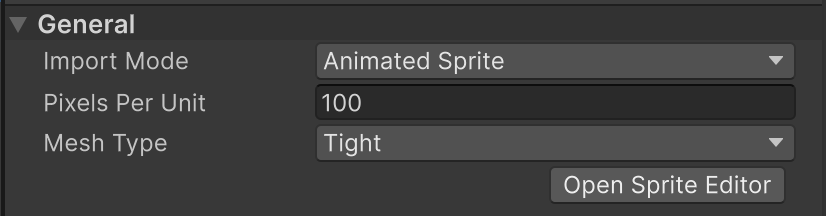
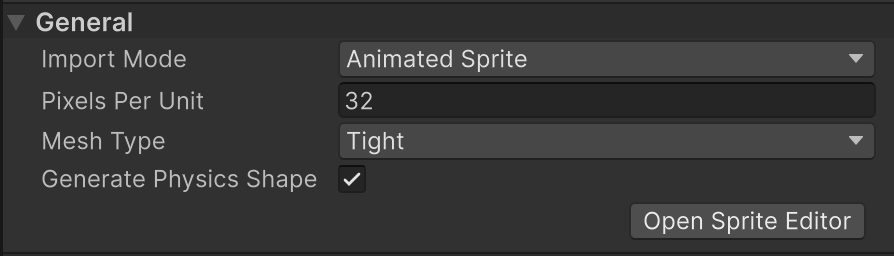
com.unity.2d.aseprite@1.1.0 ## [1.1.0] - 2023-11-24 ### Added - Added a mosaic padding option to the importer editor. - Added Generate Physics Shape option to the importer editor.
### Changed
- Fixed an issue where the background importer would act on files that were not Aseprite files.

diff --git a/Editor/Inspector/AsepriteImporterEditor.cs b/Editor/Inspector/AsepriteImporterEditor.cs
@@ -19,6 +19,7 @@ namespace UnityEditor.U2D.Aseprite
         const string k_PaddingElementUssClass = "PaddingElement";
         const string k_SubElementUssClass = "SubElement";
 
+        SerializedProperty m_GeneratePhysicsShape;
         SerializedProperty m_TextureType;
         SerializedProperty m_TextureShape;
         SerializedProperty m_SpriteMode;
@@ -59,6 +60,7 @@ namespace UnityEditor.U2D.Aseprite
         SerializedProperty m_DefaultPivotSpace;
         SerializedProperty m_DefaultPivotAlignment;
         SerializedProperty m_CustomPivotPosition;
+        SerializedProperty m_MosaicPadding;
         SerializedProperty m_SpritePadding;
 
         SerializedProperty m_GenerateModelPrefab;
@@ -127,7 +129,9 @@ namespace UnityEditor.U2D.Aseprite
 
         void CacheSerializedProperties()
         {
-           var textureImporterSettingsSP = serializedObject.FindProperty("m_TextureImporterSettings");
+            m_GeneratePhysicsShape = serializedObject.FindProperty("m_GeneratePhysicsShape");
+            
+            var textureImporterSettingsSP = serializedObject.FindProperty("m_TextureImporterSettings");
             m_TextureType = textureImporterSettingsSP.FindPropertyRelative("m_TextureType");
             m_TextureShape = textureImporterSettingsSP.FindPropertyRelative("m_TextureShape");
             m_ConvertToNormalMap = textureImporterSettingsSP.FindPropertyRelative("m_ConvertToNormalMap");
@@ -168,6 +172,7 @@ namespace UnityEditor.U2D.Aseprite
             m_DefaultPivotSpace = asepriteImporterSettings.FindPropertyRelative("m_DefaultPivotSpace");
             m_DefaultPivotAlignment = asepriteImporterSettings.FindPropertyRelative("m_DefaultPivotAlignment");
             m_CustomPivotPosition = asepriteImporterSettings.FindPropertyRelative("m_CustomPivotPosition");
+            m_MosaicPadding = asepriteImporterSettings.FindPropertyRelative("m_MosaicPadding");
             m_SpritePadding = asepriteImporterSettings.FindPropertyRelative("m_SpritePadding");
 
             m_GenerateModelPrefab = asepriteImporterSettings.FindPropertyRelative("m_GenerateModelPrefab");
@@ -272,6 +277,13 @@ namespace UnityEditor.U2D.Aseprite
                 serializedObject.ApplyModifiedProperties();
             });
             foldOut.Add(meshField);
+
+            var physicsShapeField = new PropertyField(m_GeneratePhysicsShape, styles.generatePhysicsShape.text)
+            {
+                tooltip = styles.generatePhysicsShape.tooltip
+            };
+            physicsShapeField.Bind(serializedObject);
+            foldOut.Add(physicsShapeField);
 
             SetupSpriteEditorButton(foldOut);
             
@@ -396,14 +408,30 @@ namespace UnityEditor.U2D.Aseprite
             customPivotField.EnableInClassList(k_HiddenElementUssClass, !shouldShow);
             customPivotField.schedule.Execute(x =>
             {
-                var shouldShow = (SpriteAlignment)pivotAlignmentPopup.index == SpriteAlignment.Custom;
-                if (customPivotField.visible != shouldShow)
+                var isShowing = (SpriteAlignment)pivotAlignmentPopup.index == SpriteAlignment.Custom;
+                if (customPivotField.visible != isShowing)
                 {
-                    customPivotField.visible = shouldShow;
-                    customPivotField.EnableInClassList(k_HiddenElementUssClass, !shouldShow);
+                    customPivotField.visible = isShowing;
+                    customPivotField.EnableInClassList(k_HiddenElementUssClass, !isShowing);
                 }
             }).Every(100);
             foldOut.Add(customPivotField);
+            
+            var mosaicPaddingField = new PropertyField(m_MosaicPadding, styles.mosaicPadding.text)
+            {
+                tooltip = styles.mosaicPadding.tooltip
+            };
+            mosaicPaddingField.Bind(serializedObject);
+            mosaicPaddingField.schedule.Execute(() =>
+            {
+                var isShowing = fileImportMode == FileImportModes.AnimatedSprite;
+                if (mosaicPaddingField.visible != isShowing)
+                {
+                    mosaicPaddingField.visible = isShowing;
+                    mosaicPaddingField.EnableInClassList(k_HiddenElementUssClass, !isShowing);
+                }
+            }).Every(100);
+            foldOut.Add(mosaicPaddingField);            
             
             var spritePaddingField = new PropertyField(m_SpritePadding, styles.spritePadding.text)
             {
@@ -412,11 +440,11 @@ namespace UnityEditor.U2D.Aseprite
             spritePaddingField.Bind(serializedObject);
             spritePaddingField.schedule.Execute(() =>
             {
-                var shouldShow = fileImportMode == FileImportModes.AnimatedSprite;
-                if (spritePaddingField.visible != shouldShow)
+                var isShowing = fileImportMode == FileImportModes.AnimatedSprite;
+                if (spritePaddingField.visible != isShowing)
                 {
-                    spritePaddingField.visible = shouldShow;
-                    spritePaddingField.EnableInClassList(k_HiddenElementUssClass, !shouldShow);
+                    spritePaddingField.visible = isShowing;
+                    spritePaddingField.EnableInClassList(k_HiddenElementUssClass, !isShowing);
                 }
             }).Every(100);
             foldOut.Add(spritePaddingField);
@@ -1419,6 +1447,7 @@ namespace UnityEditor.U2D.Aseprite
             public readonly GUIContent fileImportMode = new ("Import Mode", "How the file should be imported.");
             public readonly GUIContent spritePixelsPerUnit = new ("Pixels Per Unit", "How many pixels in the sprite correspond to one unit in the world.");
             public readonly GUIContent spriteMeshType = new ("Mesh Type", "Type of sprite mesh to generate.");
+            public readonly GUIContent generatePhysicsShape = new ("Generate Physics Shape", "Generates a default physics shape from the outline of the Sprite/s when a physics shape has not been set in the Sprite Editor.");
 
             public readonly GUIContent warpNotSupportWarning = new ("Graphics device doesn't support Repeat wrap mode on NPOT textures. Falling back to Clamp.");
             public readonly GUIContent anisoLevelLabel = new ("Aniso Level");
@@ -1464,7 +1493,8 @@ namespace UnityEditor.U2D.Aseprite
             public readonly GUIContent defaultPivotSpace = EditorGUIUtility.TrTextContent("Pivot Space", "Select which space the pivot should be calculated in.");
             public readonly GUIContent defaultPivotAlignment = EditorGUIUtility.TrTextContent("Pivot Alignment", "Select where the pivot should be located based on the Pivot Space.");
             public readonly GUIContent customPivotPosition = EditorGUIUtility.TrTextContent("Custom Pivot Position", "Input the normalized position of the Sprite pivots. The position will be calculated based on the Pivot Space.");
-            public readonly GUIContent spritePadding = EditorGUIUtility.TrTextContent("Sprite Padding", "Internal padding within each SpriteRect generated from the Aseprite file.");
+            public readonly GUIContent mosaicPadding = EditorGUIUtility.TrTextContent("Mosaic Padding", "External padding between each SpriteRect, in pixels.");
+            public readonly GUIContent spritePadding = EditorGUIUtility.TrTextContent("Sprite Padding", "Internal padding within each SpriteRect, in pixels.");
 
             public readonly List<string> spriteAlignmentOptions = new()
             {

diff --git a/Editor/AsepriteImporter.cs b/Editor/AsepriteImporter.cs
@@ -81,6 +81,7 @@ namespace UnityEditor.U2D.Aseprite
             defaultPivotAlignment = SpriteAlignment.BottomCenter,
             defaultPivotSpace = PivotSpaces.Canvas,
             customPivotPosition = new Vector2(0.5f, 0.5f),
+            mosaicPadding = 4,
             spritePadding = 0,
             generateAnimationClips = true,
             generateModelPrefab = true,
@@ -109,6 +110,7 @@ namespace UnityEditor.U2D.Aseprite
 
         [SerializeField] List<TextureImporterPlatformSettings> m_PlatformSettings = new List<TextureImporterPlatformSettings>();
         
+        [SerializeField] bool m_GeneratePhysicsShape = false;
         [SerializeField] SecondarySpriteTexture[] m_SecondarySpriteTextures;   
         [SerializeField] string m_SpritePackingTag = "";   
         
@@ -154,6 +156,16 @@ namespace UnityEditor.U2D.Aseprite
         {
             get => importData.textureActualHeight;
             private set => importData.textureActualHeight = value;
+        }
+
+        float definitionScale
+        {
+            get
+            {
+                var definitionScaleW = importData.importedTextureWidth / (float) textureActualWidth;
+                var definitionScaleH = importData.importedTextureHeight / (float) textureActualHeight;
+                return Mathf.Min(definitionScaleW, definitionScaleH);
+            }
         }
 
         internal SecondarySpriteTexture[] secondaryTextures
@@ -203,9 +215,9 @@ namespace UnityEditor.U2D.Aseprite
                     m_AsepriteLayers = UpdateLayers(in newLayers, in m_AsepriteLayers);
                 }
 
-                var padding = 4;
-                var spritePadding = m_AsepriteImporterSettings.fileImportMode == FileImportModes.AnimatedSprite ? m_AsepriteImporterSettings.spritePadding : 0;
-                ImagePacker.Pack(cellBuffers.ToArray(), cellWidth.ToArray(), cellHeight.ToArray(), padding, spritePadding, out var outputImageBuffer, out var packedTextureWidth, out var packedTextureHeight, out var spriteRects, out var uvTransforms);
+                var mosaicPad = m_AsepriteImporterSettings.mosaicPadding;
+                var spritePad = m_AsepriteImporterSettings.fileImportMode == FileImportModes.AnimatedSprite ? m_AsepriteImporterSettings.spritePadding : 0;
+                ImagePacker.Pack(cellBuffers.ToArray(), cellWidth.ToArray(), cellHeight.ToArray(), (int)mosaicPad, spritePad, out var outputImageBuffer, out var packedTextureWidth, out var packedTextureHeight, out var spriteRects, out var uvTransforms);
                 
                 var packOffsets = new Vector2Int[spriteRects.Length];
                 for (var i = 0; i < packOffsets.Length; ++i)
@@ -236,6 +248,9 @@ namespace UnityEditor.U2D.Aseprite
                     importData.importedTextureWidth = output.texture.width;
                 }
 
+                if (output.texture != null && output.sprites != null)
+                    SetPhysicsOutline(GetDataProvider<ISpritePhysicsOutlineDataProvider>(), output.sprites, definitionScale, pixelsPerUnit, m_GeneratePhysicsShape);
+                
                 RegisterAssets(ctx, output);
                 OnPostAsepriteImport?.Invoke(new ImportEventArgs(this, ctx));
                 
@@ -639,6 +654,54 @@ namespace UnityEditor.U2D.Aseprite
             spriteData.name = cell.name;
             spriteData.uvTransform = uvTransform;
             return spriteData;
+        }
+        
+       static void SetPhysicsOutline(ISpritePhysicsOutlineDataProvider physicsOutlineDataProvider, Sprite[] sprites, float definitionScale, float pixelsPerUnit, bool generatePhysicsShape)
+        {
+            foreach (var sprite in sprites)
+            {
+                var guid = sprite.GetSpriteID();
+                var outline = physicsOutlineDataProvider.GetOutlines(guid);
+
+                var outlineOffset = sprite.pivot;
+                var generated = false;
+                if ((outline == null || outline.Count == 0) && generatePhysicsShape)
+                {
+                    InternalEditorBridge.GenerateOutlineFromSprite(sprite, 0.25f, 200, true, out var defaultOutline);
+                    outline = new List<Vector2[]>(defaultOutline.Length);
+                    for (var i = 0; i < defaultOutline.Length; ++i)
+                    {
+                        outline.Add(defaultOutline[i]);
+                    }
+
+                    generated = true;
+                }
+                if (outline != null && outline.Count > 0)
+                {
+                    // Ensure that outlines are all valid.
+                    var validOutlineCount = 0;
+                    for (var i = 0; i < outline.Count; ++i)
+                        validOutlineCount += ( (outline[i].Length > 2) ? 1 : 0 );
+
+                    var index = 0;
+                    var convertedOutline = new Vector2[validOutlineCount][];
+                    var useScale = generated ? pixelsPerUnit * definitionScale : definitionScale;
+
+                    for (var i = 0; i < outline.Count; ++i)
+                    {
+                        if (outline[i].Length > 2)
+                        {
+                            convertedOutline[index] = new Vector2[outline[i].Length];
+                            for (var j = 0; j < outline[i].Length; ++j)
+                            {
+                                convertedOutline[index][j] = outline[i][j] * useScale + outlineOffset;
+                            }
+                            index++;
+                        }
+                    }
+                    sprite.OverridePhysicsShape(convertedOutline);
+                }
+            }
         }
 
         void RegisterAssets(AssetImportContext ctx, TextureGenerationOutput output)

diff --git a/Editor/AsepriteImporterAPIs.cs b/Editor/AsepriteImporterAPIs.cs
@@ -88,6 +88,19 @@ namespace UnityEditor.U2D.Aseprite
         }    
         
         /// <summary>
+        /// If enabled, generates a default physics shape from the outline of the Sprite/s when a physics shape has not been set in the Sprite Editor.
+        /// </summary>
+        public bool generatePhysicsShape
+        {
+            get => m_GeneratePhysicsShape;
+            set
+            {
+                m_GeneratePhysicsShape = value;
+                SetDirty();
+            }
+        }         
+        
+        /// <summary>
         /// The number of blank pixels to leave between the edge of the graphic and the mesh.
         /// </summary>
         public uint spriteExtrude
@@ -152,7 +165,16 @@ namespace UnityEditor.U2D.Aseprite
         }
         
         /// <summary>
-        /// Internal padding within each SpriteRect generated from the Aseprite file.
+        /// External padding between each SpriteRect, in pixels.
+        /// </summary>
+        public uint mosaicPadding
+        {
+            get => m_AsepriteImporterSettings.mosaicPadding;
+            set => m_AsepriteImporterSettings.mosaicPadding = value;
+        }          
+        
+        /// <summary>
+        /// Internal padding within each SpriteRect, in pixels.
         /// </summary>
         public uint spritePadding
         {

diff --git a/Editor/Common/InternalBridge/InternalEditorBridge.cs b/Editor/Common/InternalBridge/InternalEditorBridge.cs
@@ -27,5 +27,10 @@ namespace UnityEditor.U2D.Aseprite.Common
         public static void AddManagedGameObject(this PreviewRenderUtility scene, GameObject go) => scene.AddManagedGO(go);
         
         public static void RefreshInspectors() => InspectorWindow.RefreshInspectors(); 
+        
+        public static void GenerateOutlineFromSprite(Sprite sprite, float detail, byte alphaTolerance, bool holeDetection, out Vector2[][] paths)
+        {
+            UnityEditor.Sprites.SpriteUtility.GenerateOutlineFromSprite(sprite, detail, alphaTolerance, holeDetection, out paths);
+        }        
     }
 }

diff --git a/Editor/AsepriteImporterSettings.cs b/Editor/AsepriteImporterSettings.cs
@@ -47,6 +47,13 @@ namespace UnityEditor.U2D.Aseprite
             get => m_CustomPivotPosition;
             set => m_CustomPivotPosition = value;
         }
+        
+        [SerializeField] uint m_MosaicPadding;
+        public uint mosaicPadding
+        {
+            get => m_MosaicPadding;
+            set => m_MosaicPadding = value;
+        }
 
         [SerializeField] uint m_SpritePadding;
         public uint spritePadding

diff --git a/Documentation~/ImporterFeatures.md b/Documentation~/ImporterFeatures.md
@@ -55,6 +55,10 @@ The Aseprite Importer is available after you import a .ase/.aseprite file into y
       <td><strong><a href="https://docs.unity3d.com/Documentation/ScriptReference/SpriteMeshType.Tight.html">Tight</a></strong></td>
       <td>Unity generates a Mesh based on the outline of the Sprite. If the Sprite is smaller than 32 x 32 pixels, Unity always maps it onto a <b>Full Rect</b> quad Mesh, even if you select <b>Tight</b>.</td>
     </tr>
+    <tr>
+      <td rowspan="1"><strong>Generate Physics Shape</strong></td>
+      <td colspan="2">Generates a default physics shape from the outline of the Sprite/s when a physics shape has not been set in the Sprite Editor.</td>
+    </tr>
   </tbody>
 </table>
 
@@ -101,8 +105,12 @@ The Aseprite Importer is available after you import a .ase/.aseprite file into y
       <td colspan="2">How a Sprite's graphic rectangle is aligned with its pivot point. This property is set <b>Bottom</b> by default.</td>
     </tr>   
     <tr>
+      <td rowspan="1"><strong>Mosaic Padding</strong></td>
+      <td colspan="2">External padding between each SpriteRect. This property is set <b>4</b> pixels by default.</td>
+    </tr>  
+    <tr>
       <td rowspan="1"><strong>Sprite Padding</strong></td>
-      <td colspan="2">Internal padding within each SpriteRect generated from the Aseprite file. This property is set <b>0</b> by default.</td>
+      <td colspan="2">Internal padding within each SpriteRect. This property is set <b>0</b> pixels by default.</td>
     </tr>      
   </tbody>
 </table>

diff --git a/Documentation~/index.md b/Documentation~/index.md
@@ -5,11 +5,18 @@ The Aseprite Importer is an Asset importer that imports [Aseprite's](https://www
 See [Aseprite Features](AsepriteFeatures) to read more about which features from Aseprite are supported by the importer. See [Importer Features](ImporterFeatures) to read more about which features the Aseprite Importer provides.
 
 ## Getting Started
-**Prerequisite:** Unity 2021.3.15f1 or newer
+If you are using any of the following Unity versions or newer, Aseprite Importer package comes preinstalled when creating a new 2D or 2D URP project.
 
+- Unity 2023.2.0a19
+- Unity 2023.1.0f1
+- Unity 2022.3.2f1
+- Unity 2021.3.28f1
+
+You can also manually add the Aseprite Importer package by:
 1. Open [Package Manager](https://docs.unity3d.com/Manual/upm-ui.html).
-2. Press the + button and select **Add package by name**.
-3. Enter `com.unity.2d.aseprite`.
-4. Press OK.
+2. Search for **Aseprite Importer**.
+3. Select **2D Aseprite Importer** and press the **install** button.
     - If you see a Burst popup saying that a new version of Burst has been installed, restart the editor.
-5. You are now ready to import `.ase` and `.aseprite` files into your project.
+4. You are now ready to import `.ase` and `.aseprite` files into your project.
+
+**Note:** You need to use **Unity 2021.3.15f1** or newer.

diff --git a/Documentation~/whats-new.md b/Documentation~/whats-new.md
@@ -1,17 +1,4 @@
-# What's new in version 1.0.0
+# What's new in version 1.1.0
 
-- Added a new event to the Aseprite Importer which is fired at the last import process step.
-- Made the Aseprite file property publicly available.
-- Made the Aseprite file parsing API publicly available.
-- Added a property to set the padding within each generated SpriteRect.
-- Added an option to select import mode for the file, either Animated Sprite or Sprite Sheet.
-- Added ability to generate Animation Events from Cell user data.
-- Added ability to export Animator Controller and/or Animation Clips.
-- Added support for individual frame timings in animation clips.
-- Added support for layer groups.
-- Added support for Layer & Cel opacity.
-- Added support for repeating/non repeating tags/Animation Clips.
-- Layer blend modes are now supported with Import Mode: Merge Frames.
-- Sped up the importation of Aseprite files by bursting the image processing tasks. Note: Only for Unity 2022.2 and newer.
-- Simplified the generated model prefab when only one Sprite Renderer is present.
-- A Sorting Group component is added by default to Model Prefabs with more than one Sprite Renderer.
+- Added a mosaic padding option to the importer editor.
+- Added Generate Physics Shape option to the importer editor.

diff --git a/CHANGELOG.md b/CHANGELOG.md
@@ -1,5 +1,9 @@
 # Changelog
-## [1.0.1] - 2023-08-16
+## [1.1.0] - 2023-11-24
+### Added
+- Added a mosaic padding option to the importer editor.
+- Added Generate Physics Shape option to the importer editor.
+
 ### Changed
 - Fixed an issue where the background importer would act on files that were not Aseprite files.
 
